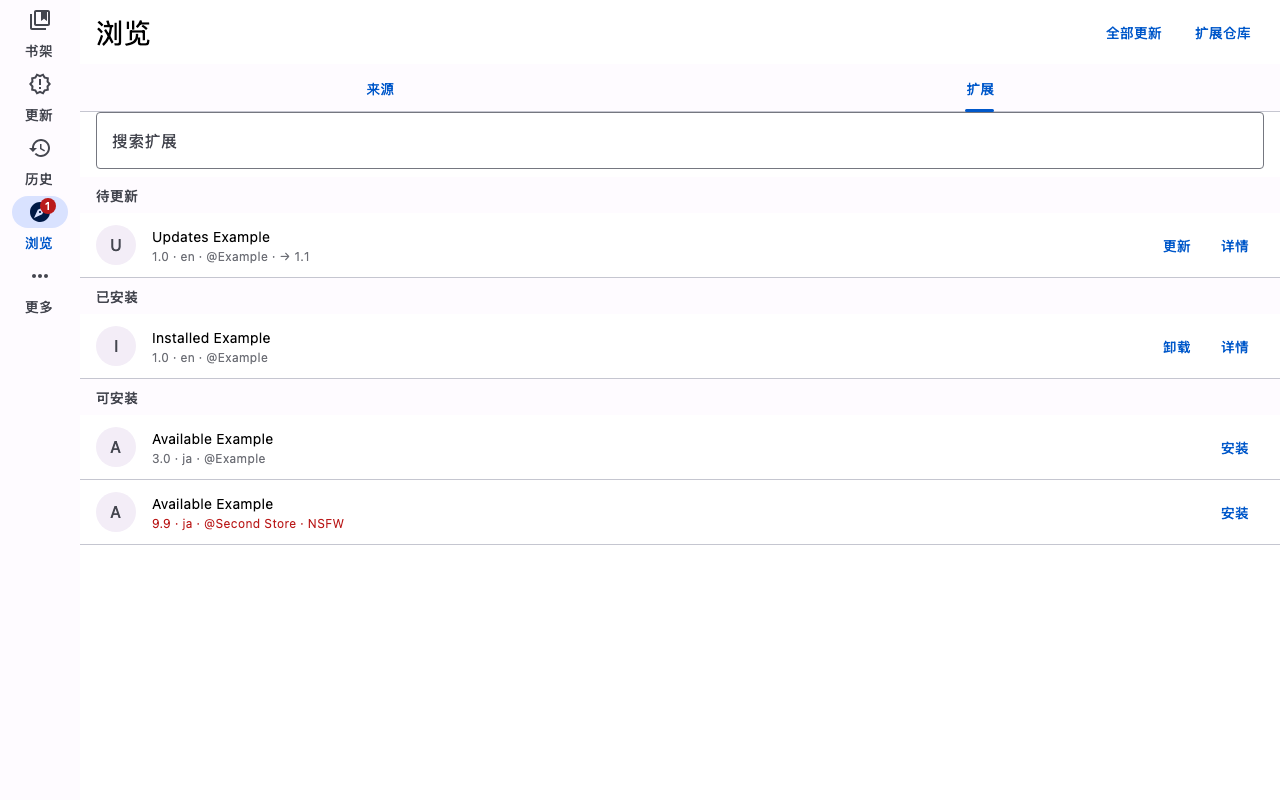
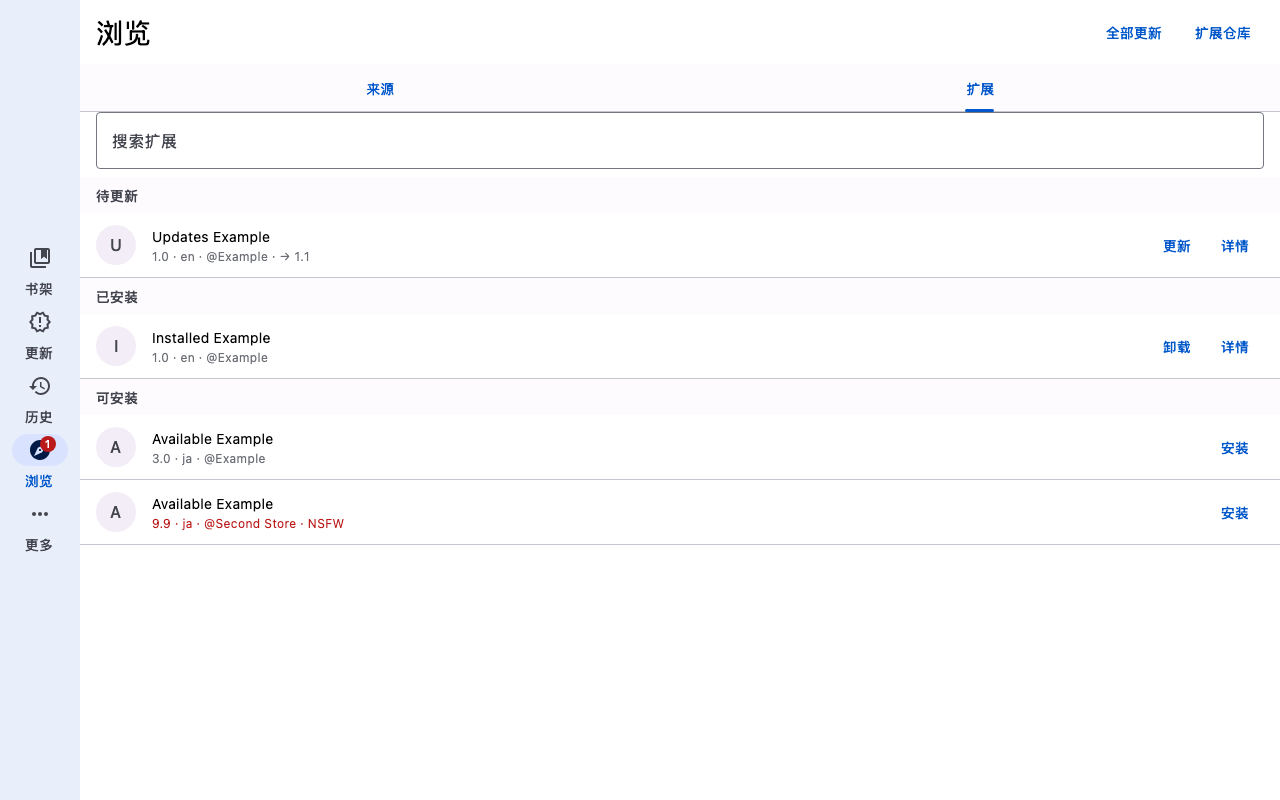
恢复宽屏导航轨纵向居中
- ReaderNavigationRail 改回 Komikku 自定容器布局：Surface +
  全高 Column 以 CenterVertically 居中，条目仍用官方 M3
  NavigationRailItem，保留顺序、角标、选中态、可见项与 Insets。
- 新增 NavigationRailCenteringTest：全五项与隐藏子集两种
  情况断言入口组与导航轨可用区域垂直中心重合。
- 重拍 1280x800 浅色/深色导航轨截图，420dp 底栏作回归对照。

diff --git a/shared/design-system/src/commonMain/kotlin/navigation/ReaderNavigationRail.kt b/shared/design-system/src/commonMain/kotlin/navigation/ReaderNavigationRail.kt
@@ -1,14 +1,32 @@
 package app.koyura.designsystem.navigation
 
+import androidx.compose.foundation.layout.Arrangement
+import androidx.compose.foundation.layout.Column
 import androidx.compose.foundation.layout.WindowInsets
-import androidx.compose.material3.NavigationRail
+import androidx.compose.foundation.layout.fillMaxHeight
+import androidx.compose.foundation.layout.padding
+import androidx.compose.foundation.layout.widthIn
+import androidx.compose.foundation.layout.windowInsetsPadding
+import androidx.compose.foundation.selection.selectableGroup
 import androidx.compose.material3.NavigationRailDefaults
 import androidx.compose.material3.NavigationRailItem
+import androidx.compose.material3.Surface
+import androidx.compose.material3.contentColorFor
 import androidx.compose.runtime.Composable
+import androidx.compose.ui.Alignment
 import androidx.compose.ui.Modifier
+import androidx.compose.ui.platform.testTag
+import androidx.compose.ui.unit.dp
 
 /**
  * Center-aligned navigation rail for wide windows.
+ *
+ * Mirrors Komikku's custom `tachiyomi.presentation.core.components.material.NavigationRail`
+ * (used by `HomeScreen`): a Material 3 [Surface] with a full-height [Column] whose items are
+ * packed with [Alignment.CenterVertically], so the entry group stays at the rail's vertical
+ * center instead of sticking to the top. Items themselves are official Material 3
+ * [NavigationRailItem]s with the same five tabs, order, selection indicator and Updates/Browse
+ * badges as the bottom bar.
  *
  * Behaves like [ReaderNavigationBar]: [visibleTabs] keep their canonical order, every tap is
  * forwarded once through [onTabClick] (including taps on the current destination), and the rail
@@ -32,28 +50,50 @@ fun ReaderNavigationRail(
     browseBadgeCount: Int = 0,
     windowInsets: WindowInsets = NavigationRailDefaults.windowInsets,
 ) {
-    // Mirrors Komikku HomeScreen navigation rail: Material 3 NavigationRail with the same five
-    // tabs, order, selection indicator and Updates/Browse badges as the bottom bar.
-    NavigationRail(
+    val containerColor = NavigationRailDefaults.ContainerColor
+    Surface(
+        color = containerColor,
+        contentColor = contentColorFor(containerColor),
+        tonalElevation = NavigationRailElevation,
         modifier = modifier,
-        windowInsets = windowInsets,
     ) {
-        visibleTabs.ordered().forEach { tab ->
-            val selected = tab == selectedTab
-            NavigationRailItem(
-                selected = selected,
-                onClick = { onTabClick(tab) },
-                icon = {
-                    NavigationTabIcon(
-                        tab = tab,
-                        selected = selected,
-                        updatesBadgeCount = updatesBadgeCount,
-                        browseBadgeCount = browseBadgeCount,
-                    )
-                },
-                label = { NavigationTabLabel(tab) },
-                alwaysShowLabel = labelMode == NavLabelMode.AlwaysShow,
-            )
+        Column(
+            modifier = Modifier
+                .fillMaxHeight()
+                .windowInsetsPadding(windowInsets)
+                .widthIn(min = NavigationRailMinWidth)
+                .padding(vertical = NavigationRailVerticalPadding)
+                .selectableGroup()
+                .testTag(NavigationRailEntriesTag),
+            horizontalAlignment = Alignment.CenterHorizontally,
+            verticalArrangement = Arrangement.spacedBy(
+                NavigationRailVerticalPadding,
+                alignment = Alignment.CenterVertically,
+            ),
+        ) {
+            visibleTabs.ordered().forEach { tab ->
+                val selected = tab == selectedTab
+                NavigationRailItem(
+                    selected = selected,
+                    onClick = { onTabClick(tab) },
+                    icon = {
+                        NavigationTabIcon(
+                            tab = tab,
+                            selected = selected,
+                            updatesBadgeCount = updatesBadgeCount,
+                            browseBadgeCount = browseBadgeCount,
+                        )
+                    },
+                    label = { NavigationTabLabel(tab) },
+                    alwaysShowLabel = labelMode == NavLabelMode.AlwaysShow,
+                )
+            }
         }
     }
 }
+
+const val NavigationRailEntriesTag = "navigation-rail-entries"
+
+internal val NavigationRailMinWidth = 80.dp
+internal val NavigationRailVerticalPadding = 4.dp
+internal val NavigationRailElevation = 3.dp

diff --git a/shared/app/src/jvmTest/kotlin/NavigationRailCenteringTest.kt b/shared/app/src/jvmTest/kotlin/NavigationRailCenteringTest.kt
@@ -1,0 +1,86 @@
+package app.koyura.app
+
+import androidx.compose.foundation.layout.Box
+import androidx.compose.foundation.layout.WindowInsets
+import androidx.compose.foundation.layout.size
+import androidx.compose.ui.Modifier
+import androidx.compose.ui.platform.testTag
+import androidx.compose.ui.test.onNodeWithTag
+import androidx.compose.ui.test.v2.runComposeUiTest
+import androidx.compose.ui.unit.dp
+import app.koyura.designsystem.ReaderTheme
+import app.koyura.designsystem.navigation.NavTab
+import app.koyura.designsystem.navigation.NavigationRailEntriesTag
+import app.koyura.designsystem.navigation.ReaderNavigationRail
+import kotlin.math.abs
+import kotlin.test.Test
+import kotlin.test.assertTrue
+
+/**
+ * Guards the Komikku wide-rail contract: the entry group stays vertically centered in the
+ * rail's available area instead of sticking to the top.
+ *
+ * Reference: Komikku `presentation/core/.../material/NavigationRail.kt` packs its full-height
+ * column with `Arrangement.spacedBy(extraSmall, CenterVertically)`; `HomeScreen` renders the
+ * five tabs inside it. The independent check measured the top-stuck group at y=162 against a
+ * rail center of y=384 in a 1280x800 dp viewport.
+ */
+class NavigationRailCenteringTest {
+    private fun centerY(tag: String, widthDp: Int = 96, heightDp: Int = 800): Pair<Float, Float> {
+        var railCenter = 0f
+        var entriesCenter = 0f
+        runComposeUiTest {
+            setContent {
+                ReaderTheme {
+                    Box(Modifier.size(widthDp.dp, heightDp.dp)) {
+                        ReaderNavigationRail(
+                            selectedTab = NavTab.Library,
+                            onTabClick = {},
+                            modifier = Modifier.testTag("test-rail"),
+                            visibleTabs = visibleTabsFor(tag),
+                            windowInsets = WindowInsets(0, 0, 0, 0),
+                        )
+                    }
+                }
+            }
+            waitForIdle()
+            val rail = onNodeWithTag("test-rail").fetchSemanticsNode()
+            val entries = onNodeWithTag(NavigationRailEntriesTag).fetchSemanticsNode()
+            val railBounds = rail.boundsInRoot
+            val entriesBounds = entries.boundsInRoot
+            railCenter = (railBounds.top + railBounds.bottom) / 2f
+            entriesCenter = (entriesBounds.top + entriesBounds.bottom) / 2f
+        }
+        return railCenter to entriesCenter
+    }
+
+    private fun visibleTabsFor(tag: String): Set<NavTab> = when (tag) {
+        "subset" -> setOf(NavTab.Library, NavTab.History, NavTab.More)
+        else -> NavTab.entries.toSet()
+    }
+
+    @Test
+    fun allFiveEntriesAreVerticallyCentered() {
+        val (railCenter, entriesCenter) = centerY("all")
+        val drift = abs(entriesCenter - railCenter)
+        assertTrue(
+            drift <= CenteringTolerancePx,
+            "five entries must sit at the rail center: rail=$railCenter entries=$entriesCenter drift=$drift",
+        )
+    }
+
+    @Test
+    fun hiddenEntriesRemainCentered() {
+        val (railCenter, entriesCenter) = centerY("subset")
+        val drift = abs(entriesCenter - railCenter)
+        assertTrue(
+            drift <= CenteringTolerancePx,
+            "visible subset must stay centered: rail=$railCenter entries=$entriesCenter drift=$drift",
+        )
+    }
+
+    private companion object {
+        /** Layout is exact; allow sub-pixel rounding plus one dp of slack. */
+        const val CenteringTolerancePx = 2f
+    }
+}

diff --git a/docs/alignment/a-shell/README.md b/docs/alignment/a-shell/README.md
@@ -95,3 +95,19 @@ REF='/Users/kurisu/project x/reference/Venera-Next'
   字体排印 Expressive、封面取色主题与设置持久化由主 agent / C 接线。
 - 导航图标为静态 outline/selected 资源；原版为 `AnimatedImageVector`（选中态为动画终帧，视觉一致，
   切换无过渡动画）。标签重选仅透出事件（`onTabReselect`），未做原版式的重选滚动到顶/打开全局搜索。
+
+## 返修（宽屏导航轨纵向居中）
+
+- 现象：上一版把导航轨换成官方 Material 3 `NavigationRail` 容器后，五个入口在
+  1280×800 dp 下贴顶（独立测试测得入口组中心 y=162、导航轨中心 y=384）。
+- 对照：`reference/komikku/.../tachiyomi/ui/home/HomeScreen.kt` 使用的是
+  `presentation-core/.../material/NavigationRail.kt` 自定容器——Material 3 `Surface` +
+  全高 `Column`，以 `Arrangement.spacedBy(extraSmall, CenterVertically)` 纵向居中。
+- 修复：`ReaderNavigationRail` 恢复该居中列布局（`Surface` + `fillMaxHeight` +
+  `CenterVertically` + `minWidth 80dp` + `3dp`  tonal elevation），条目仍用官方
+  Material 3 `NavigationRailItem`，保留五栏顺序、角标、选中态、可见项与 Insets 行为。
+- 断言：新增 `NavigationRailCenteringTest`（全部五项与隐藏部分入口两种情况），
+  比较入口组与导航轨可用区域的垂直中心，容差 2px，均通过。
+- 截图：重拍 `screenshots/a-shell-1280-light.png` / `a-shell-1280-dark.png`
+ （导航轨居中），另以 `screenshots/a-shell-420-light.png`（底栏）作回归对照。
+  全部截图均为 JVM `ImageComposeScene` 离屏渲染（非实机/模拟器），视口见文件名。
